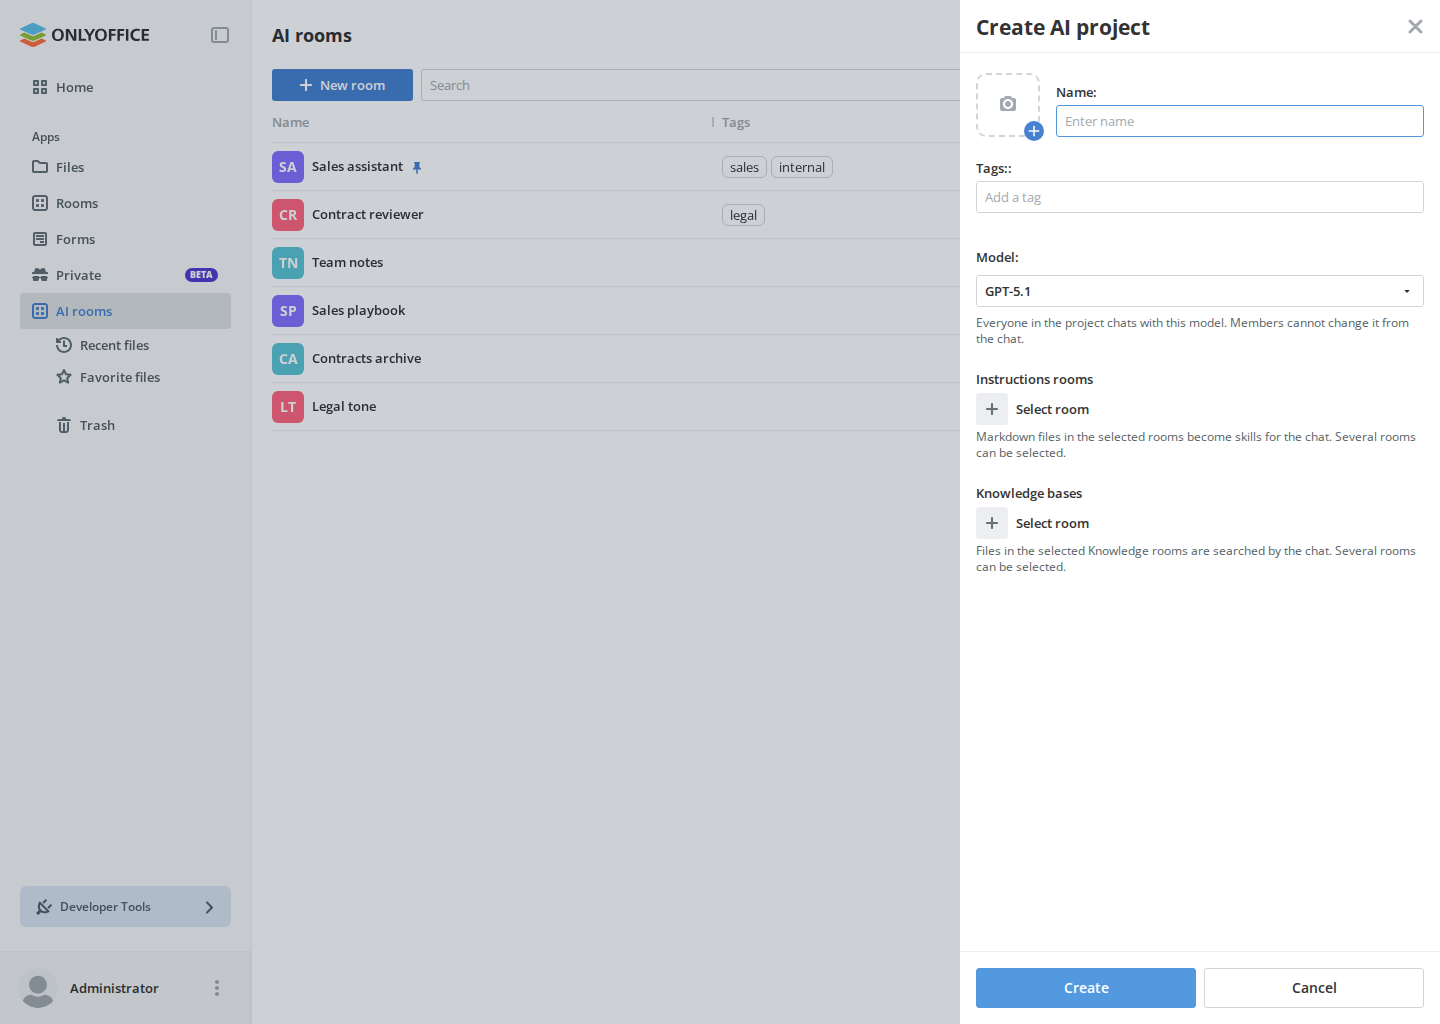
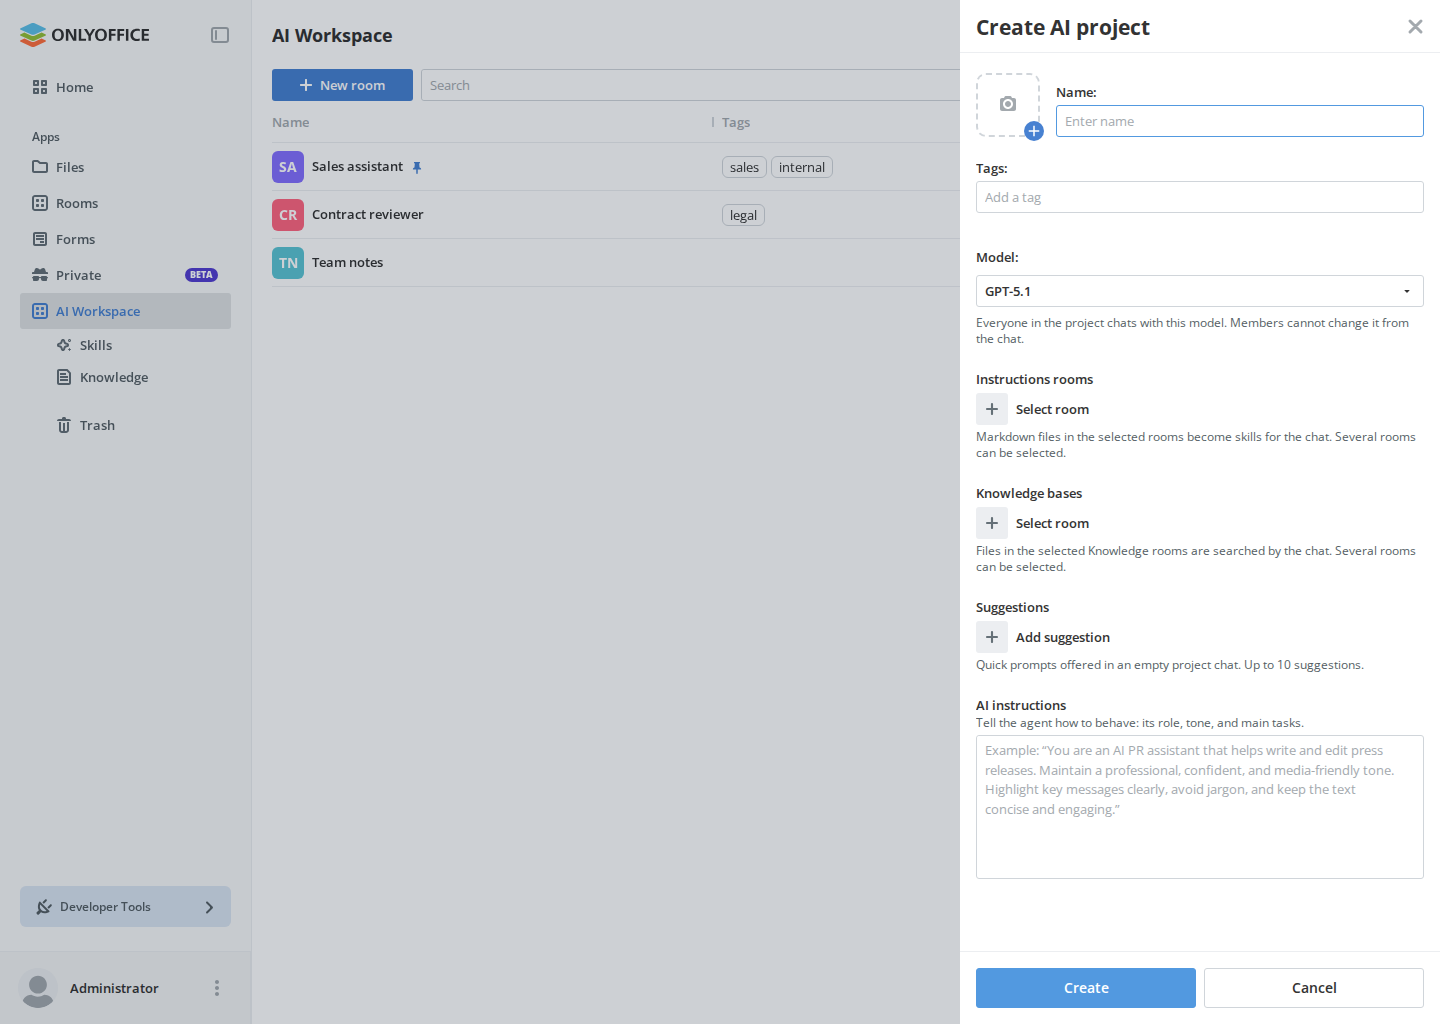
Client: AI Workspace E2E: the list specs follow the root creating a project and the Knowledge entry holding the Knowledge rooms

diff --git a/packages/client/__tests__/ai-projects.spec.ts b/packages/client/__tests__/ai-projects.spec.ts
@@ -50,16 +50,18 @@ import {
   AI_PROJECT_WITHOUT_SOURCES,
   rootHandler,
   filesSettingsHandler,
+  roomTagsHandler,
 } from "@docspace/shared/__mocks__/handlers";
 
 import { expect, test, TEST_PORT } from "./fixtures/base";
 
 /**
  * The "AI rooms" section the server keeps under its own root, drawn by Home
- * with the Rooms machinery (`/ai-rooms/*`): the Instructions rooms, the
- * Knowledge rooms and the AI projects, the section's slots, the three-type
- * create picker, a menu without archive, the project form, and a project
- * opened with its sources.
+ * with the Rooms machinery (`/ai-rooms/*`): the root lists the AI projects,
+ * the Skills and Knowledge entries their rooms; each list creates what it
+ * holds (the project form on the root, the entry's room type locked in the
+ * room dialog), a room's menu has no archive, and a project opens with its
+ * sources.
  *
  * The list is a Files table; the project views open the first stock
  * project, which links Instructions and Knowledge rooms, and the last,
@@ -137,8 +139,12 @@ test.describe("AI Workspace", () => {
         ...aiSectionsHandlers(TEST_PORT, stockProjects()),
       );
 
+      // The root lists the agents: the Knowledge rooms sit behind the
+      // section's own entry.
       await page.goto(`${baseUrl}${AI_ROOMS_URL}`);
       await expect(table(page)).toBeVisible();
+      await sidebar(page).getByText("Knowledge", { exact: true }).click();
+      await expect(table(page)).toContainText("Contracts archive");
 
       const knowledgeRow = table(page)
         .locator("[data-testid^=table-row-]")
@@ -151,7 +157,7 @@ test.describe("AI Workspace", () => {
       await expect(page.locator("#option_archive-room")).toHaveCount(0);
     });
 
-    test("creates rooms from a picker of the three AI types", async ({
+    test("creates a project from the root, which lists the agents", async ({
       page,
       mockRequest,
       baseUrl,
@@ -164,22 +170,10 @@ test.describe("AI Workspace", () => {
       await page.goto(`${baseUrl}${AI_ROOMS_URL}`);
       await expect(table(page)).toBeVisible();
 
+      // The list creates what it holds: on the root, an agent, so New room
+      // opens the project form with no room type to choose.
       await page.getByText("New room", { exact: true }).first().click();
-
-      const types = page.getByTestId("room-type-list-item");
-      await expect(types).toHaveCount(3);
-      await expect(types.nth(0)).toContainText("Instructions");
-      await expect(types.nth(1)).toContainText("Knowledge");
-      await expect(types.nth(2)).toContainText("AI project");
-
-      await expectScreenshot(page, [
-        "desktop",
-        "ai-projects",
-        "ai-rooms-create-picker.png",
-      ]);
-
-      // "AI project" leaves the room dialog for the project form.
-      await types.nth(2).click();
+      await expect(page.getByTestId("room-type-list-item")).toHaveCount(0);
       // The modal root is a zero-size wrapper; the aside's fields are what shows.
       await expect(page.getByTestId("ai-project-dialog")).toBeAttached();
       await expect(page.getByTestId("ai-project-title")).toBeVisible();
@@ -190,6 +184,30 @@ test.describe("AI Workspace", () => {
         "ai-projects",
         "ai-projects-create-dialog.png",
       ]);
+    });
+
+    test("creates a Knowledge room from the Knowledge list", async ({
+      page,
+      mockRequest,
+      baseUrl,
+    }) => {
+      mockRequest.use(
+        selfByTypeHandler(TEST_PORT, "owner"),
+        // The room dialog reads the portal's tags for its tag input.
+        roomTagsHandler(TEST_PORT),
+        ...aiSectionsHandlers(TEST_PORT, stockProjects()),
+      );
+
+      await page.goto(`${baseUrl}${AI_ROOMS_URL}`);
+      await expect(table(page)).toBeVisible();
+      await sidebar(page).getByText("Knowledge", { exact: true }).click();
+      await expect(table(page)).toContainText("Contracts archive");
+
+      // The entry's room type is set and locked: no chooser, no project form.
+      await page.getByText("New room", { exact: true }).first().click();
+      await expect(page.getByTestId("create_room_dialog_save")).toBeVisible();
+      await expect(page.getByTestId("room-type-list-item")).toHaveCount(0);
+      await expect(page.getByTestId("ai-project-dialog")).toHaveCount(0);
     });
 
     test("offers an admin to create a room when the section is empty", async ({
@@ -251,8 +269,8 @@ test.describe("AI Workspace", () => {
       );
 
       await page.goto(`${baseUrl}${AI_ROOMS_URL}`);
+      // The empty root creates an agent: New room opens the project form.
       await emptyView(page).getByText("New room", { exact: true }).click();
-      await page.getByTestId("room-type-list-item").nth(2).click();
       await page.getByTestId("ai-project-title").fill("Sales");
 
       // A picture goes through the icon's hidden file input into the crop
